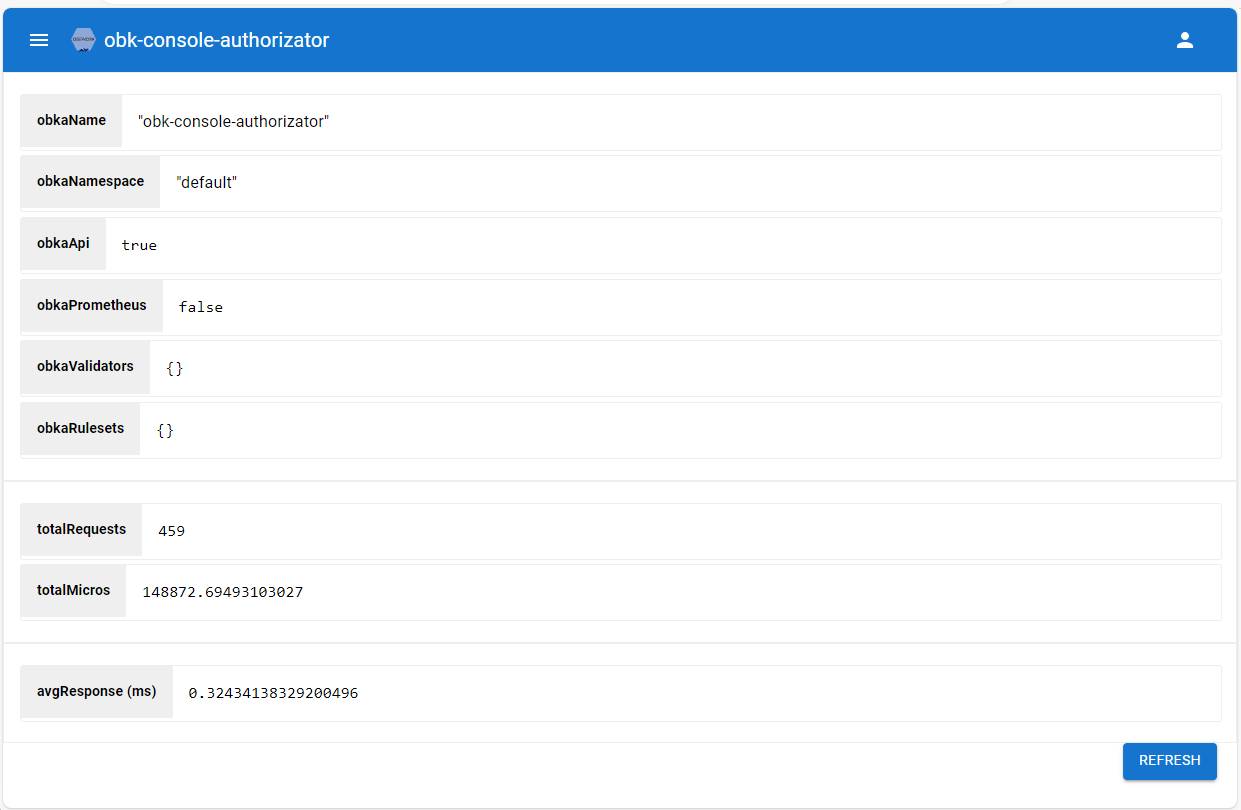
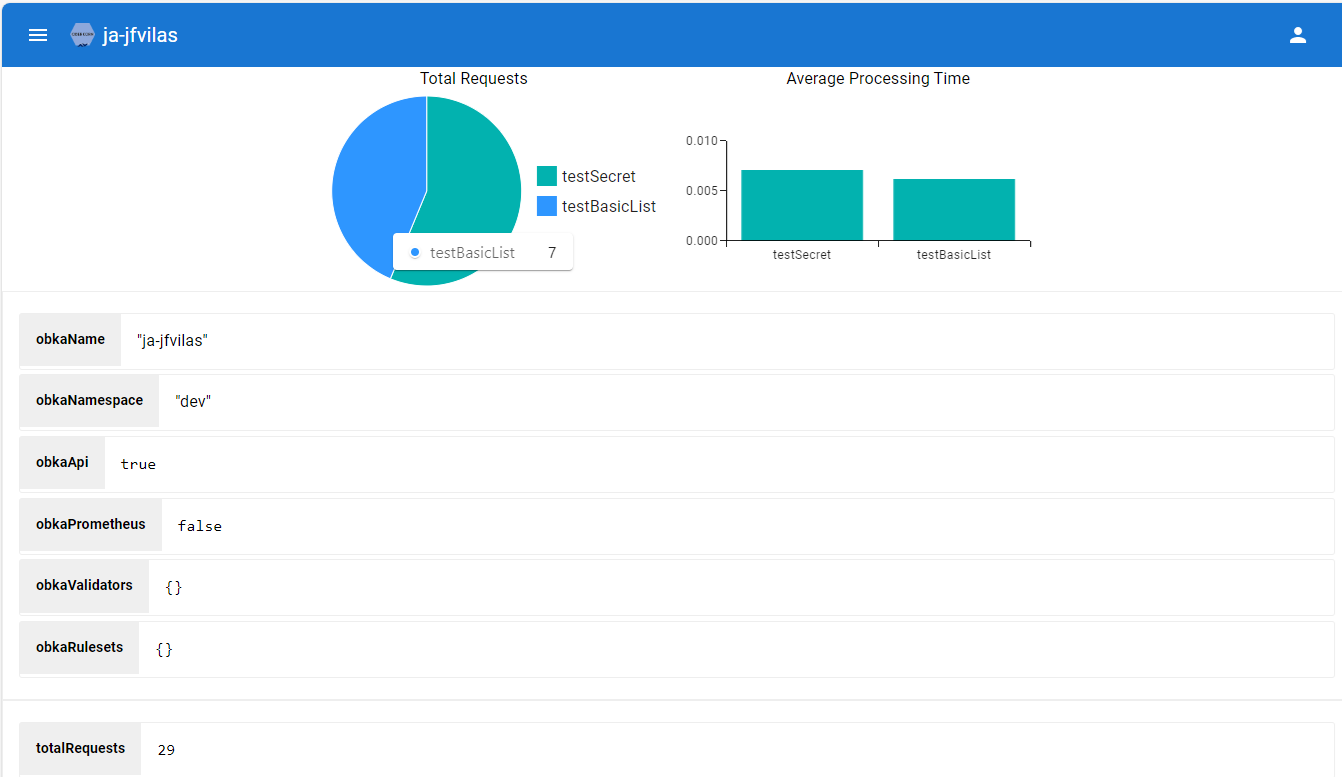
web console

diff --git a/docs/webconsole.md b/docs/webconsole.md
@@ -101,8 +101,6 @@ The homepage is easy to understand, it only contains a selector for selecting wh
 ![Authorizator Overview](/_media/webconsole/webconsole-overview.png)
 
 
-//+++ document console functionalities (add screenshots)
-
 ### Using te web console
 These are the main sections of the web console menu:
 
@@ -111,11 +109,16 @@ These are the main sections of the web console menu:
   - **Rulesets**: information about all rulesets defined in the authorizator.
   - **Actions**: you can perform several diagnotics and tracing activities here.
 
-#### Ovreview
+#### Overview
+General information about the authroizator (this does not include specific info on the validators).
 
 #### Validators
+List of validators and their current configuration.
 
 #### Rulesets
+List of rulesets and their current configuration.
+
+![Rulets info](/_media/webconsole/webconsole-diagnostics.png)
 
 #### Actions
 The actions main menu option leads you to a diagnostics section. First thing to do here is selecting the validator you want to work with. Once selected the tabbed section will enable, allowing you to:
@@ -123,14 +126,24 @@ The actions main menu option leads you to a diagnostics section. First thing to 
   - Diagnose.
   - Trace (obtaining real-time information on what a user is doing).
 
+##### Invalidate
+You can use the web console to invalidate a token by specifying some invalidation criteria. You can set:
+
+  - **User name**, invalidate a token when the token has been issued for a specific user name.
+  - **Claim name**, invalidate a token when the token contains a specific claim.
+  - **Audience**, invalidate a token when the token has been issued for a specific audience.
+  - **Issuer**, invalidate a token when the token has been issued by a specific issuer.
+
+You just need to specify the criteria and click set. Next time a token matching the criteria wold be presented by a client (a user or any application accessing a protected web resource) the access will be rejected, and a 401 will be sent to the requestor.
+
+![Invalidation](/_media/webconsole/webconsole-invalidate.png)
+
+
 ##### Diagnose
-+++summary here
-+++picture hire
-##### Trace
 Tracing will show real-tiem events related to a specific user you want to trace. Just type-in the user name to trace and click start. As soon as the users performs any secutity-related action, the action descrition will be shown here. You can view here actions like 'Sing in ok', 'Invalid password', 'Vlaid token', etc...
 
-+++picture here
+![Tracing](/_media/webconsole/webconsole-diagnostics.png)
 
 You can stop the trace any time.
 
-Please keep in mind all the authorizator replicas will send information to the console about the users you want to trace. This si done by the controller sending trraciong configuration to all the replicas, and furthermore, the web console querying the authorizator replicas repeatedly (4 times in a second).
+Please keep in mind all the authorizator replicas will send information to the console about the users you want to trace. This is done by the controller sending tracing configuration to all the replicas, and furthermore, the web console querying the authorizator replicas repeatedly (4 times in a second).
